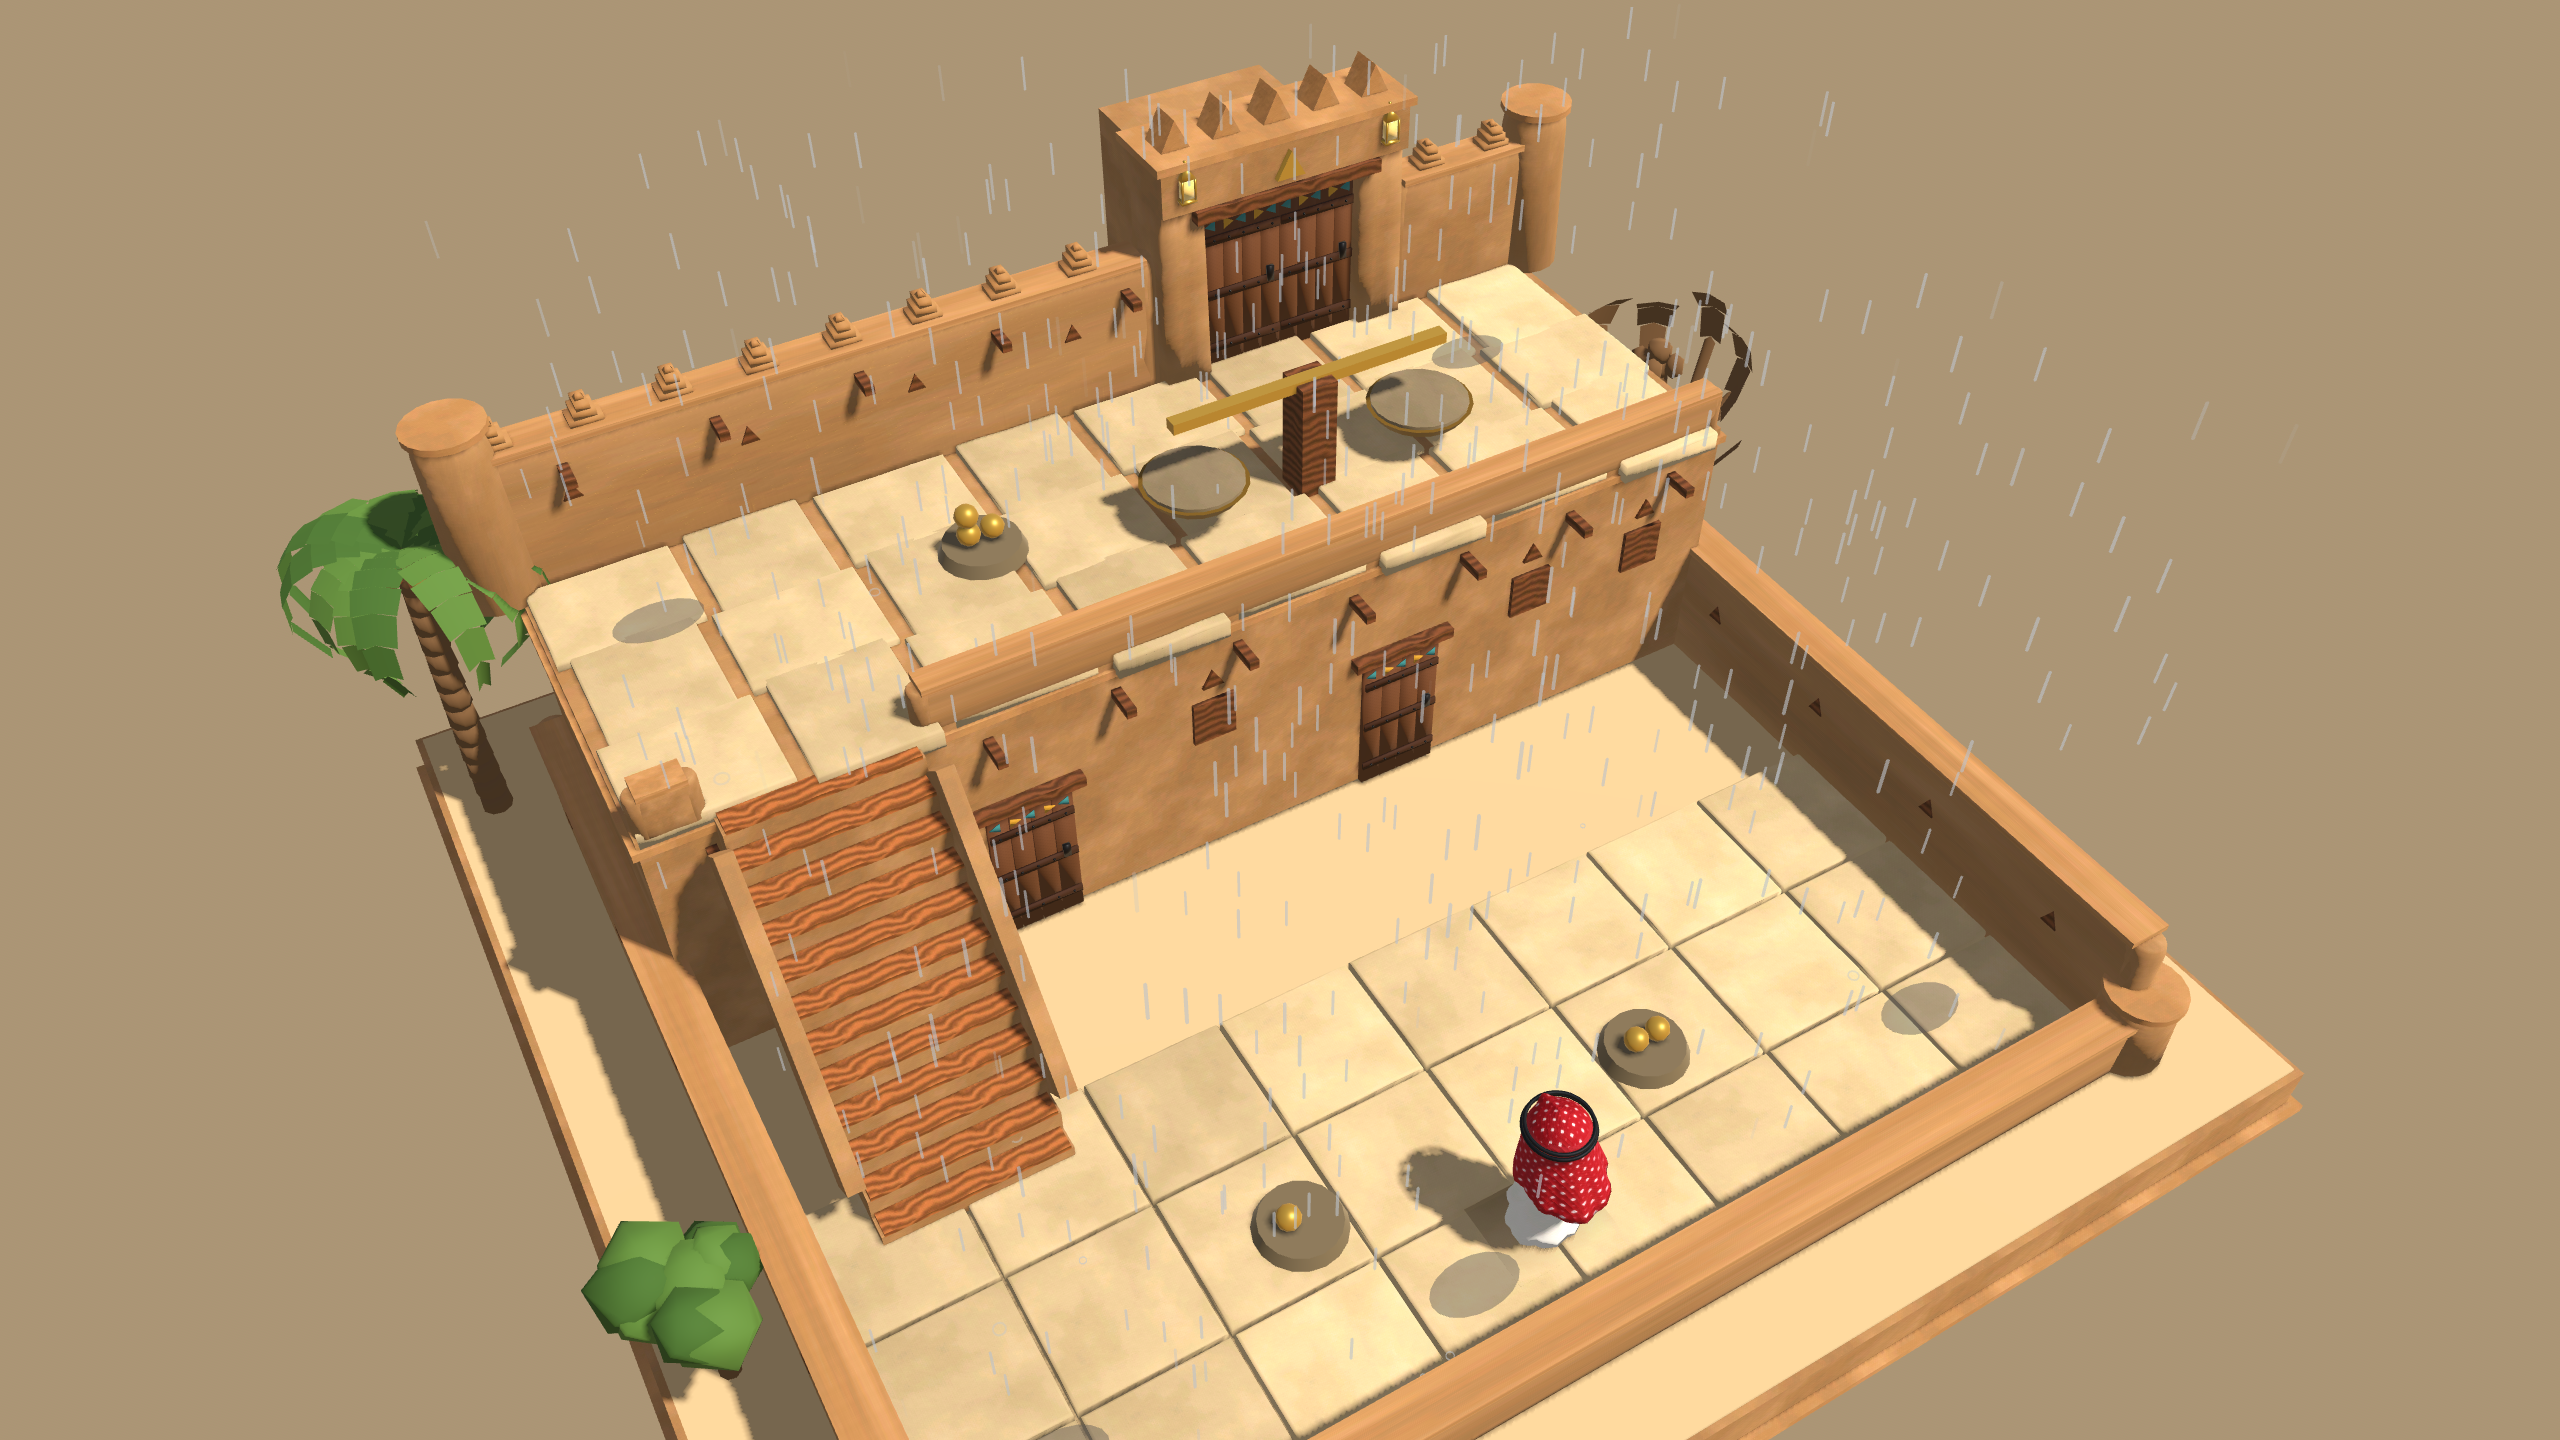
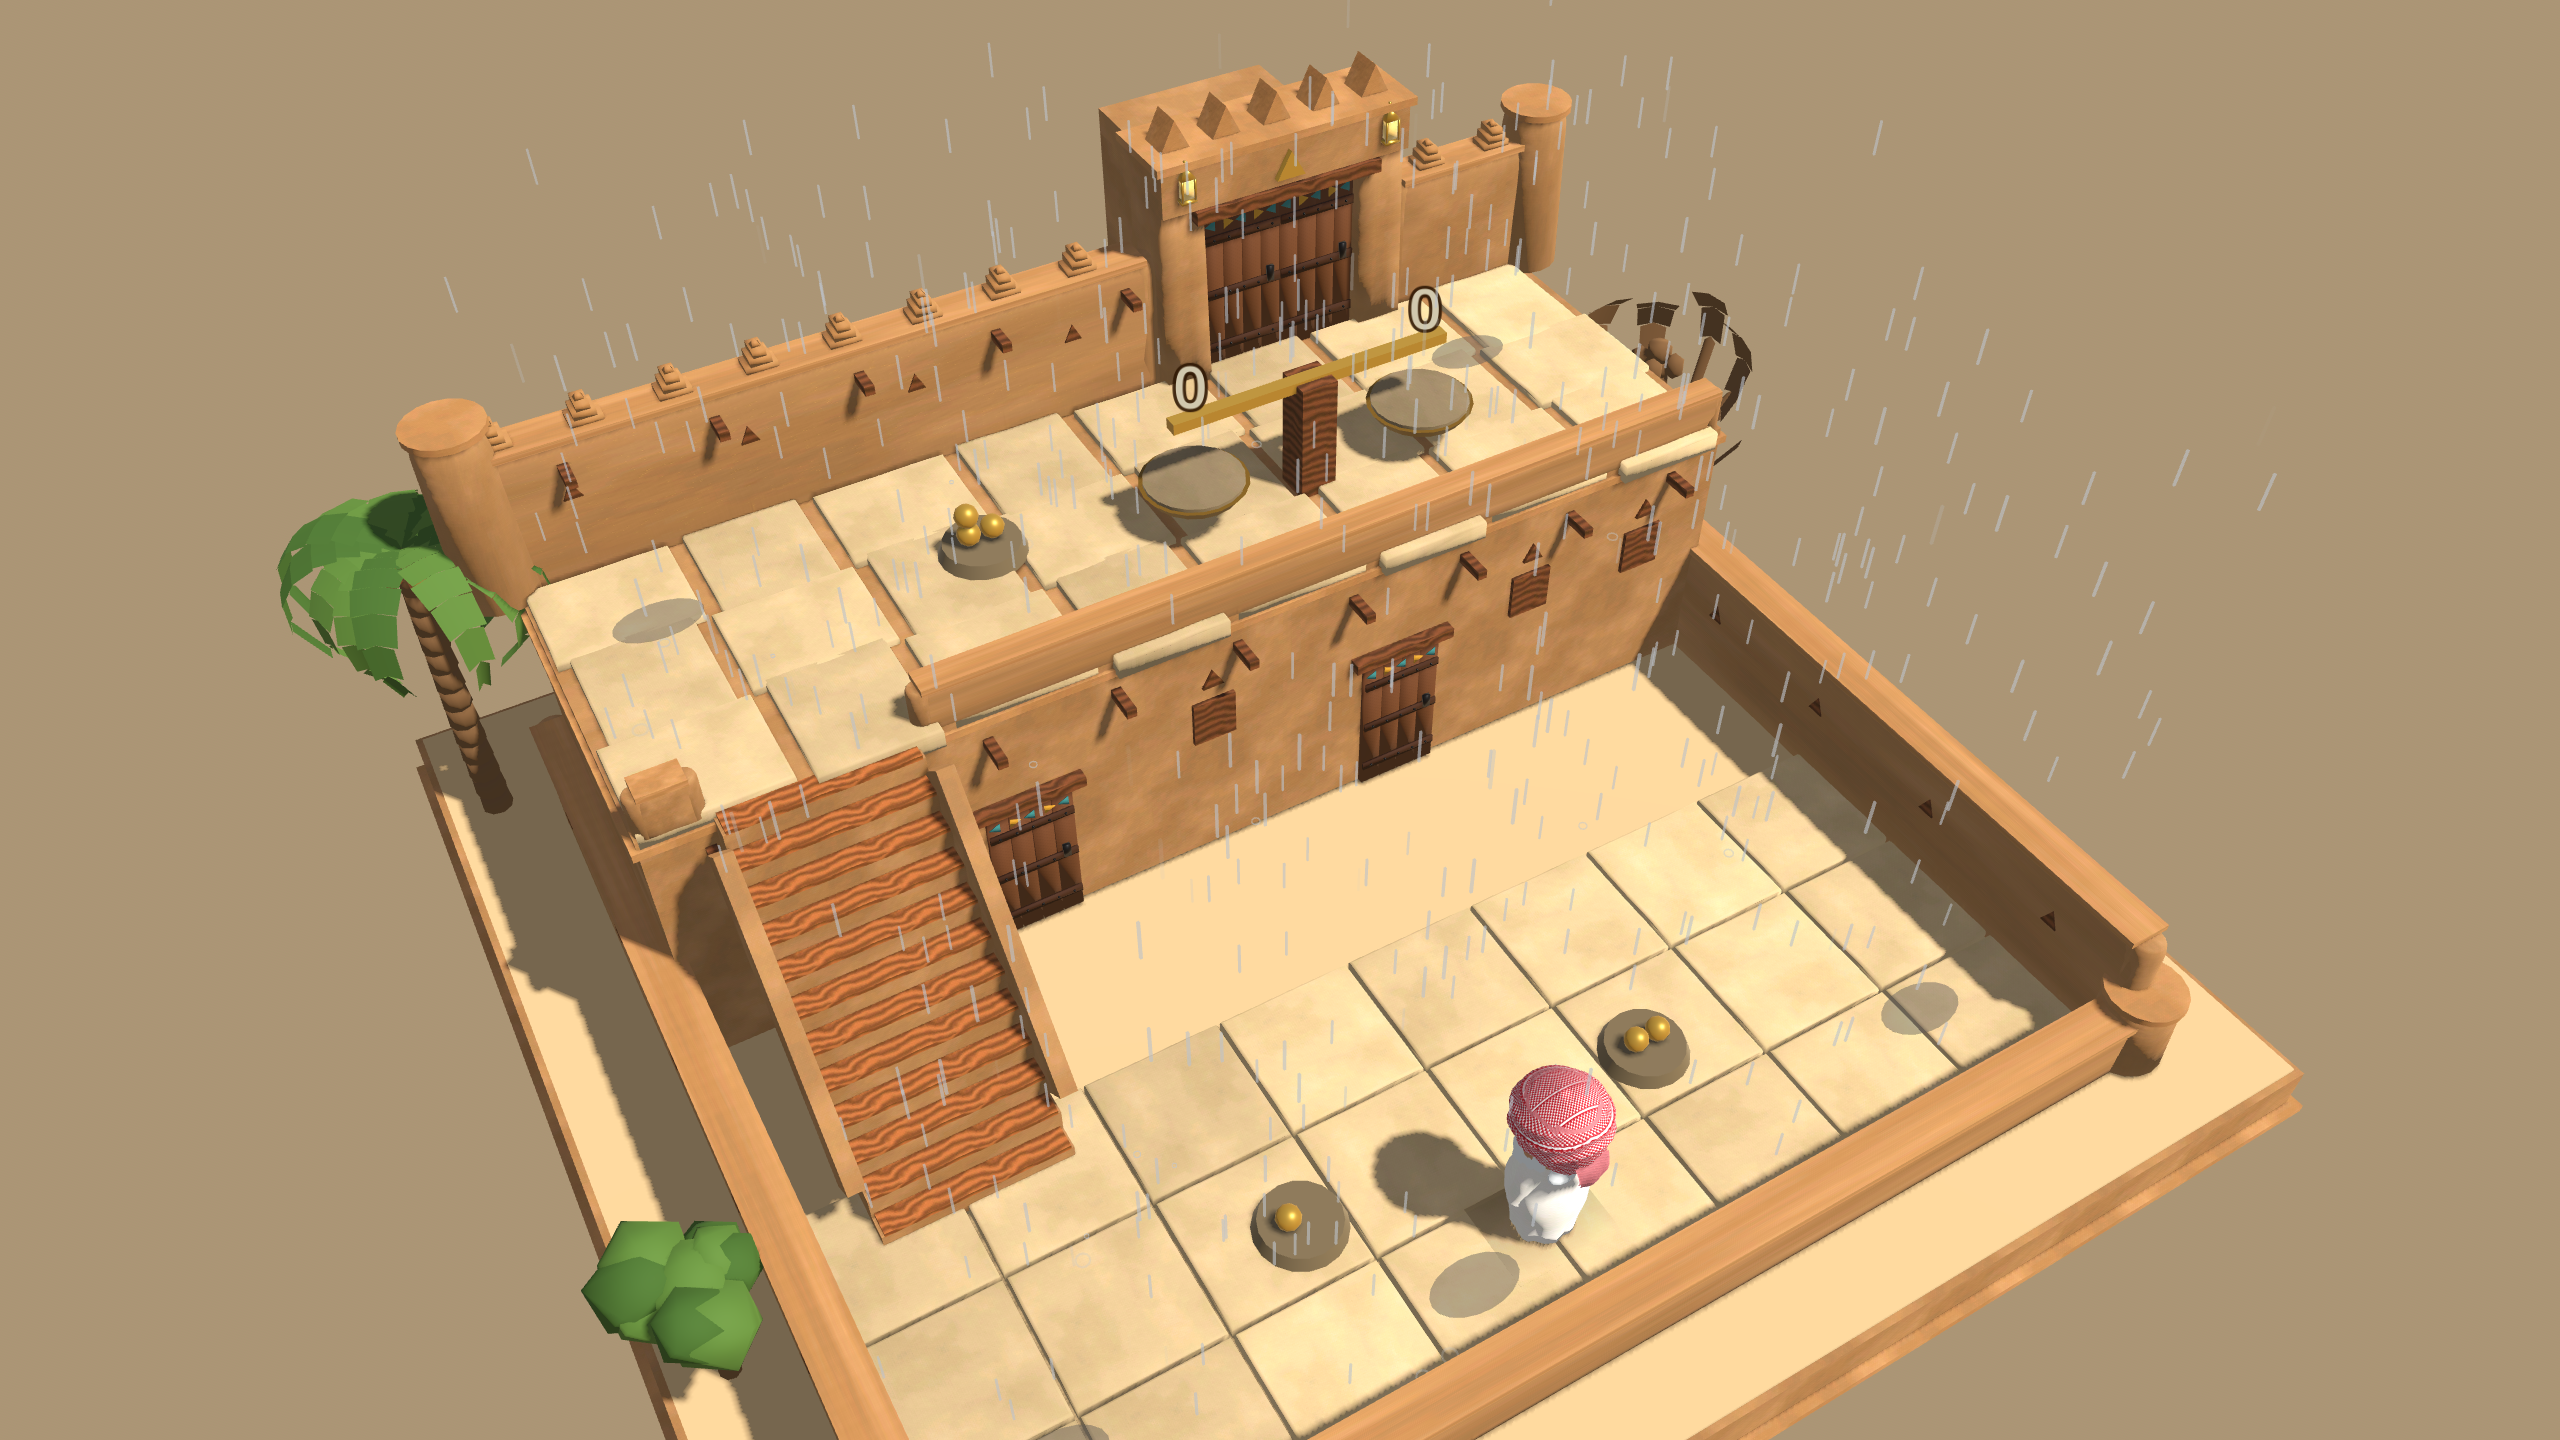
Store: complete Meta art set with the current character
Re-render covers, hero and all 7 screenshots from the current build so they
show the comedic shaib. New icon from a fresh portrait of the new model.
Add the Mini Landscape (1080x360) and split the spatialized icon into the
two layers Meta asks for (opaque background + transparent foreground with
18 px safe padding). render_portrait.gd renders the portrait in Godot when
Blender isn't available. listing.md: full art table and the PRIVACY.md link.

Claude-Session: https://claude.ai/code/session_01Tkmh4ibHYwAjncS5rDiBGv

diff --git a/quest-native/tools/store/compose_icons.py b/quest-native/tools/store/compose_icons.py
@@ -30,13 +30,23 @@ icon.alpha_composite(shadow, (72, 150))
 icon.alpha_composite(f, (62, 124))
 icon.convert("RGB").resize((512, 512), Image.LANCZOS).save(os.path.join(out, "icon_512x512.png"))
 
-# Spatialized icon: the character alone on transparency.
-bbox = face.getbbox()
-crop = face.crop(bbox)
+# Spatialized icon, two layers (Meta): background = the Najdi backdrop (opaque);
+# foreground = the character alone on transparency, kept inside the safe area
+# (18 px padding on every side of 180) with no baked shadow.
+bg.resize((180, 180), Image.LANCZOS).save(os.path.join(out, "spatial_icon_background_180x180.png"))
+# SPATIAL_PORTRAIT=<full-body.png> uses an uncropped full-body render (no cut edge).
+body = Image.open(os.environ["SPATIAL_PORTRAIT"]).convert("RGBA") if os.environ.get("SPATIAL_PORTRAIT") else face
+bbox = body.getbbox()
+crop = body.crop(bbox)
 side = max(crop.size)
 sq = Image.new("RGBA", (side, side), (0, 0, 0, 0))
-sq.alpha_composite(crop, ((side - crop.width) // 2, side - crop.height))
-sq.resize((180, 180), Image.LANCZOS).save(os.path.join(out, "spatial_icon_180x180.png"))
+sq.alpha_composite(crop, ((side - crop.width) // 2, (side - crop.height) // 2))
+fg = Image.new("RGBA", (180, 180), (0, 0, 0, 0))
+fg.alpha_composite(sq.resize((144, 144), Image.LANCZOS), (18, 18))
+fg.save(os.path.join(out, "spatial_icon_foreground_180x180.png"))
+if not (os.path.exists(AR) and os.path.exists(LA)):
+    print("icons written to", out, "(logo skipped: Cairo TTF fonts not found)")
+    sys.exit(0)
 
 # Logo: the exact app name on transparency (Arabic shaped with raqm).
 W, H = 2600, 1100

diff --git a/quest-native/tools/store/render_icon.py b/quest-native/tools/store/render_icon.py
@@ -1,4 +1,5 @@
 """Close portrait of the hero for store icons (Cycles, transparent background).
+Without Blender, tools/store/render_portrait.gd renders the same portrait in Godot.
 python -m bpy render_icon.py -- <hero.blend> <out.png>"""
 import math, sys
 import bpy

diff --git a/store/listing.md b/store/listing.md
@@ -57,23 +57,28 @@ By Aboden Games — عبودين قيمز.
 | Mixed reality | Yes — passthrough; uses Space Setup tables if allowed |
 | Languages | Arabic and English (in-app and store text) |
 | Internet required | No |
-| Privacy policy URL | https://3wasfnjd.github.io/Mafateeh/privacy.html (alternative: https://github.com/3wasfnjd/Mafateeh/blob/main/PRIVACY.md) |
+| Privacy policy URL | https://github.com/3wasfnjd/Mafateeh/blob/main/PRIVACY.md (works while the repo is public; https://3wasfnjd.github.io/Mafateeh/privacy.html only if GitHub Pages is published) |
 | Age group (upload) | Your decision: TEENS_AND_ADULTS (default) or MIXED_AGES |
 
 ## Art (all in this folder)
 
-| Asset | File | Size |
+| Dashboard field | File | Size |
 |---|---|---|
-| Cover landscape | `cover_landscape_2560x1440.png` | 2560×1440, 24-bit |
-| Cover square | `cover_square_1440x1440.png` | 1440×1440, 24-bit |
-| Cover portrait | `cover_portrait_1008x1440.png` | 1008×1440, 24-bit |
-| Hero cover | `hero_3000x900.png` | 3000×900, 24-bit |
-| Icon | `icon_512x512.png` | 512×512, 24-bit |
-| Spatialized icon | `spatial_icon_180x180.png` | 180×180, with transparency |
-| Logo | `logo_transparent.png` | transparent |
-| Trailer cover | `trailer_cover_2560x1440.png` | 2560×1440 |
-| Screenshots | `screenshots/*.png` | 2560×1440 each (7) |
+| Hero Cover | `hero_3000x900.png` | 3000×900, 24-bit |
+| Cover Landscape | `cover_landscape_2560x1440.png` | 2560×1440, 24-bit |
+| Cover Square | `cover_square_1440x1440.png` | 1440×1440, 24-bit |
+| Cover Portrait | `cover_portrait_1008x1440.png` | 1008×1440, 24-bit |
+| Mini Landscape | `mini_landscape_1080x360.png` | 1080×360, 24-bit |
+| Icon | `icon_512x512.png` | 512×512, 24-bit, square corners |
+| Spatialized icon — foreground | `spatial_icon_foreground_180x180.png` | 180×180, transparent, 18 px safe padding |
+| Spatialized icon — background | `spatial_icon_background_180x180.png` | 180×180, 24-bit |
+| Logo (optional) | `logo_transparent.png` | 1600×710, transparent |
+| Trailer cover (only with a trailer) | `trailer_cover_2560x1440.png` | 2560×1440, 24-bit |
+| Screenshots | `screenshots/01…07_*.png` | 2560×1440 each (7; Meta needs at least 5) |
 
-Screenshots and covers are rendered from the real game scenes with the desktop renderer
+`aboden_logo.png` is the studio logo for the in-game intro; it is not a store asset.
+
+Covers and screenshots are rendered from the real game scenes with the desktop renderer
 (`quest-native/tools/store/make_store_art.sh`); a headset capture can replace any of them.
-A trailer video is optional and not included.
+The icon portraits come from `quest-native/tools/store/render_portrait.gd` (or `render_icon.py`
+with Blender) and `compose_icons.py`. A trailer video is optional and not included.
